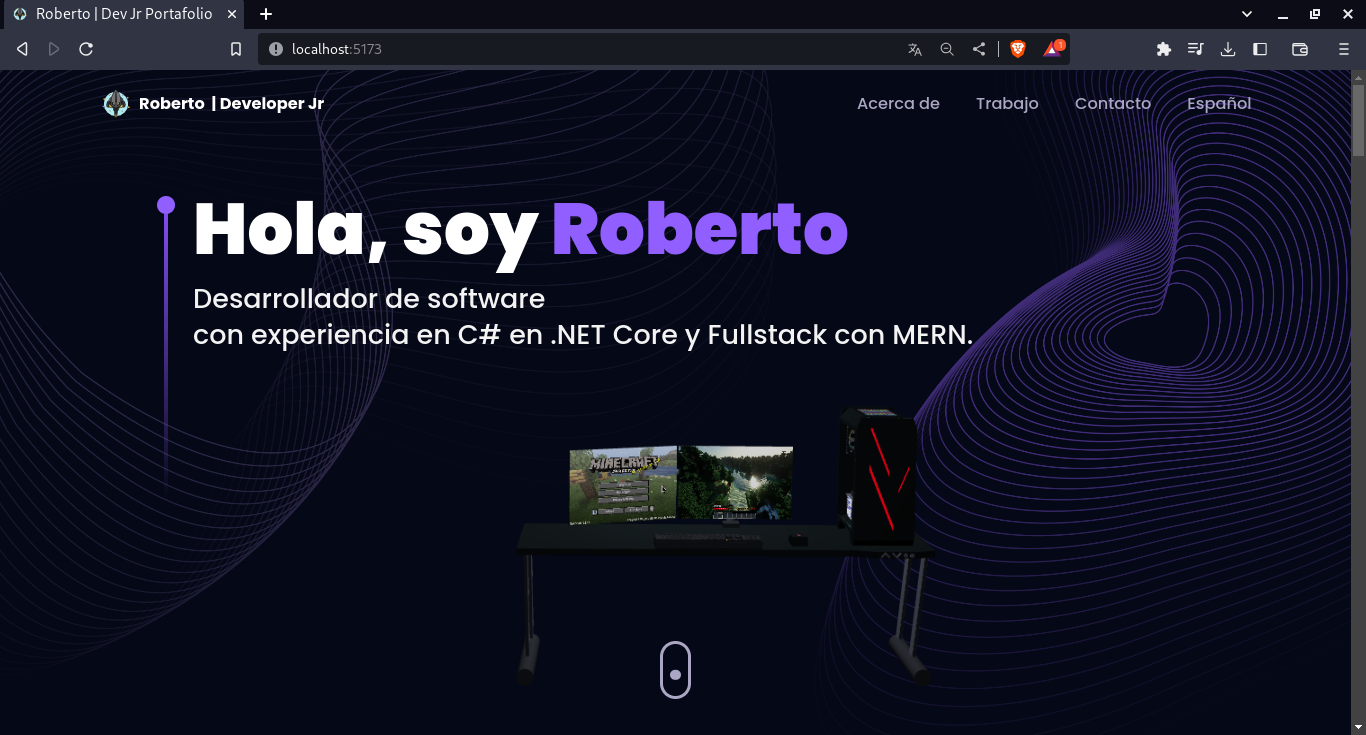
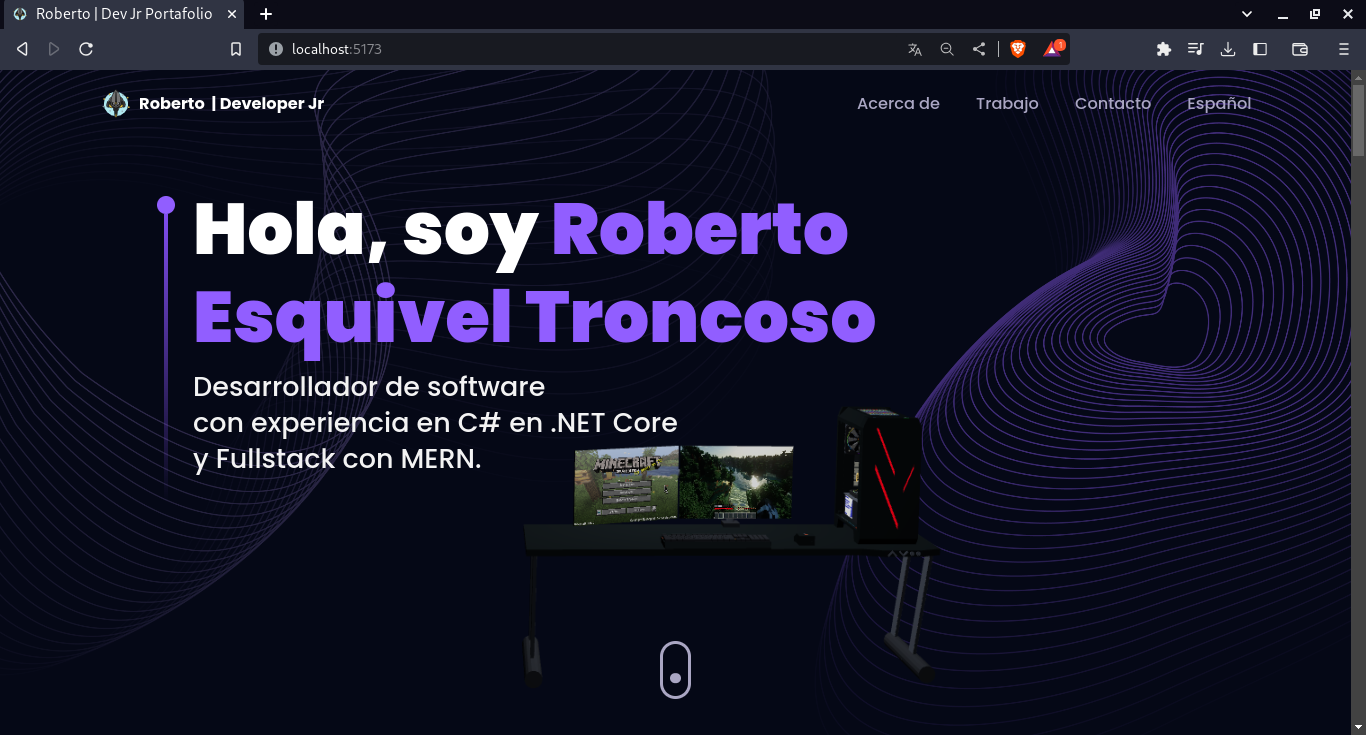
imgs

diff --git a/src/components/Hero.jsx b/src/components/Hero.jsx
@@ -13,7 +13,7 @@ const Hero = ({ language }) => {
   useEffect(() => {
     setSaludo(language !== 'en' ? `Hi, I'm` : 'Hola, soy');
     setDev(language !== 'en' ? "Software developer" : 'Desarrollador de software');
-    setExp(language !== 'en' ? "experienced in C# in .NET Core and Fullstack with MERN." : 'con experiencia en C# en .NET Core y Fullstack con MERN.');
+    setExp(language !== 'en' ? `experienced in C# in .NET Core <br />and Fullstack with MERN.` : `con experiencia en C# en .NET Core <br />y Fullstack con MERN.`);
 
   }, [language])
 
@@ -28,10 +28,11 @@ const Hero = ({ language }) => {
         </div>
         <div>
           <h1 className={`${styles.heroHeadText} text-white`}>
-            {saludo} <span className='text-[#915EFF]'>Roberto</span>
+            {saludo} <span className='text-[#915EFF]'>Roberto <br className='sm:block hidden' />Esquivel Troncoso</span>
           </h1>
           <p className={`${styles.heroSubText} mt-2 text-white-100`}>
-            {dev}<br className='sm:block hidden' />{exp}
+            {dev} <br className='sm:block hidden' />
+            <p dangerouslySetInnerHTML={{ __html: exp }}></p>
           </p>
         </div>
       </div>
